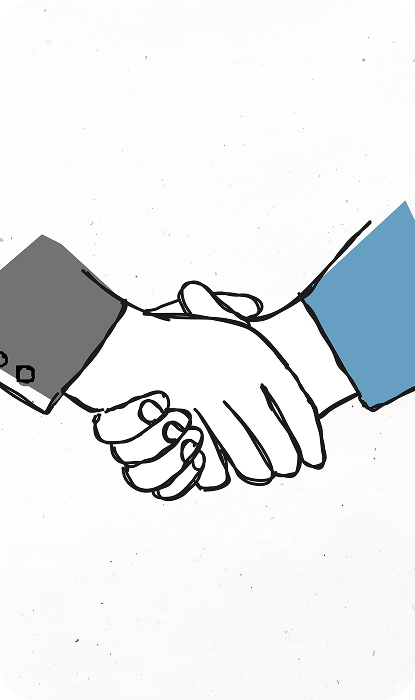
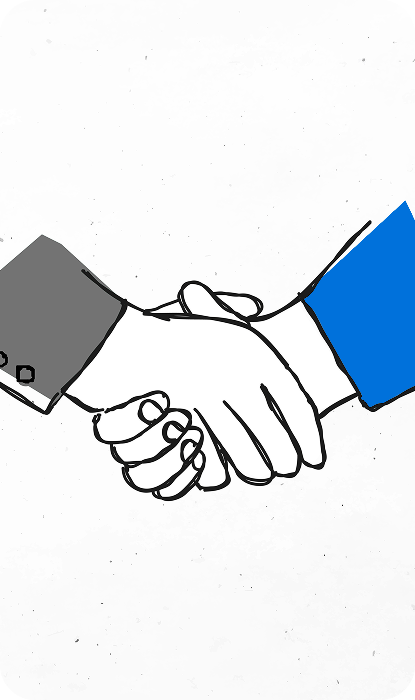
Perubahan warna dan tambah about.html

Changed region(s): [[0.7229, 0.27, 1.0, 0.6]]

diff --git a/about.css b/about.css
@@ -1,0 +1,127 @@
+.navbar {
+  position: sticky;
+  top: 0;
+  max-width: 100%;
+  height: 60px;
+  margin-bottom: 15px;
+  transition: 0.5s;
+  z-index: 1000;
+}
+
+.navbar .container {
+  width: 100%;
+  display: flex;
+  justify-content: space-between;
+  align-items: center;
+}
+
+.navbar .container a {
+  text-decoration: none;
+}
+
+.navbar .container .logo {
+  font-family: "Teko";
+  font-size: 33px;
+  font-weight: 600;
+  color: #fff;
+}
+
+.navbar .container .navbar-toggle {
+  display: none;
+  background-color: transparent;
+  padding: 10px;
+  border: none;
+  cursor: pointer;
+}
+
+.navbar .container .navbar-toggle .bar {
+  display: block;
+  width: 25px;
+  height: 3px;
+  margin: 5px auto;
+  background-color: #fff;
+  transition: all 0.3s ease-in-out;
+}
+
+.navbar .container ul {
+  display: flex;
+}
+
+.navbar .container ul li {
+  list-style: none;
+  margin: 0 15px;
+  position: relative;
+  padding-bottom: 5px;
+  overflow: hidden;
+}
+
+.navbar .container ul li::after {
+  content: "";
+  position: absolute;
+  bottom: 0;
+  left: 0;
+  width: 100%;
+  height: 2px;
+  background-color: #fff;
+  transform: scaleX(0);
+  transform-origin: left;
+  transition: transform 0.4s ease-out;
+}
+
+.navbar .container ul li:hover::after {
+  transform: scaleX(1);
+  transform-origin: left;
+  background-color: #fff;
+}
+
+.navbar .container ul li a {
+  font-size: var(--font-size-h3);
+  font-family: var(--font-family-2);
+  letter-spacing: 2px;
+  color: #fff;
+}
+
+.navbar .container .button-header {
+  display: flex;
+  justify-content: space-between;
+  gap: 15px;
+}
+
+.navbar .container .button-header a {
+  border: 2px solid #fff;
+  padding: 7px 20px;
+  border-radius: 20px;
+  font-size: var(--font-size-h3);
+  font-weight: 500;
+  font-family: var(--font-family-2);
+  background-color: transparent;
+  color: #fff;
+}
+
+.navbar .container .button-header .signup {
+  background-color: #fff;
+  color: #000;
+}
+
+.navbar.scrolled {
+  height: 80px;
+  background-color: #fff;
+  box-shadow: 0 2px 5px rgba(0, 0, 0, 0.2);
+}
+
+#hero-about {
+  width: 100%;
+}
+
+#hero-about .container {
+  width: 100%;
+  padding: 0px;
+}
+
+#hero-about .container img {
+  position: absolute;
+  top: 0;
+  left: 0;
+  width: 100%;
+  height: 700px;
+}

diff --git a/about.html b/about.html
@@ -1,0 +1,61 @@
+<!DOCTYPE html>
+<html lang="en">
+  <head>
+    <meta charset="UTF-8" />
+    <meta name="viewport" content="width=device-width, initial-scale=1.0" />
+    <title>Bitbelajar - About Us</title>
+    <link rel="stylesheet" href="about.css" />
+    <link rel="stylesheet" href="assets/css/style.css" />
+    <link rel="stylesheet" href="assets/css/responsive.css" />
+
+    <!-- Font -->
+    <link rel="preconnect" href="https://fonts.googleapis.com" />
+    <link rel="preconnect" href="https://fonts.gstatic.com" crossorigin />
+    <link
+      href="https://fonts.googleapis.com/css2?family=Roboto:ital,wght@0,100..900;1,100..900&family=Teko:wght@300..700&display=swap"
+      rel="stylesheet"
+    />
+  </head>
+  <body>
+    <!-- ----- Header ------- -->
+    <nav class="navbar">
+      <div class="container">
+        <a href="#" class="logo link">BitBelajar</a>
+
+        <button class="navbar-toggle">
+          <span class="bar"></span>
+          <span class="bar"></span>
+          <span class="bar"></span>
+        </button>
+        <ul class="navbar-menu">
+          <li>
+            <a href="#" class="link">Home</a>
+          </li>
+          <li>
+            <a href="#about" class="link">About Us</a>
+          </li>
+          <li>
+            <a href="#bitbelajar" class="link">Why BitBelajar ?</a>
+          </li>
+          <li>
+            <a href="#feature" class="link">Feature</a>
+          </li>
+          <li>
+            <a href="#contact" class="link">Contact</a>
+          </li>
+        </ul>
+        <div class="button-header">
+          <a href="login.php" class="login">Sign In</a>
+          <a href="signup.php" class="signup">Sign Up</a>
+        </div>
+      </div>
+    </nav>
+
+    <!-- About Us Content -->
+    <section id="hero-about">
+      <div class="container">
+        <img src="assets/img/bitbelajarbanner.png" alt="Bitbelajar" />
+      </div>
+    </section>
+  </body>
+</html>

diff --git a/index.html b/index.html
@@ -52,15 +52,16 @@
           <a href="signup.php" class="signup">Sign Up</a>
         </div>
       </div>
-
-      <!-- <div class="hamburger"></div> -->
     </nav>
 
     <!-- ----------- Hero Seciton ------------- -->
     <section id="hero">
       <div class="container">
         <div class="background">
-          <img src="assets/img/Background.png" alt="" />
+          <img
+            src="assets/img/BackgroundIlustration.png"
+            alt="Bitbelajar Ilustration"
+          />
         </div>
         <div class="content">
           <h1>

diff --git a/assets/css/style.css b/assets/css/style.css
@@ -9,7 +9,7 @@ html {
 }
 
 :root {
-  --primary-color: #679fc2;
+  --primary-color: #0071db;
   --secondary-color: #000000;
   --text-color-white: #fff;
   --font-size-p: 16px;
@@ -305,6 +305,7 @@ html {
 }
 
 #bitbelajar .card-content {
+  width: 100%;
   display: flex;
   justify-content: center;
   align-items: center;

diff --git a/assets/css/responsive.css b/assets/css/responsive.css
@@ -15,7 +15,7 @@
   }
 }
 
-@media (max-width: 1265px) {
+/* @media (max-width: 1265px) {
   #hero {
     padding-top: 30px;
   }
@@ -52,7 +52,7 @@
   #join .container h1 {
     font-size: 50px;
   }
-}
+} */
 
 /* tablet */
 @media (max-width: 1024px) {

diff --git a/login.php b/login.php
@@ -3,7 +3,7 @@
   <head>
     <meta charset="UTF-8" />
     <meta name="viewport" content="width=device-width, initial-scale=1.0" />
-    <title>BitBelajar Login</title>
+    <title>BitBelajar - Login</title>
 
     <!-- login style css  -->
     <link rel="stylesheet" href="assets/css/login.css" />

diff --git a/signup.php b/signup.php
@@ -3,7 +3,7 @@
 <head>
   <meta charset="UTF-8" />
   <meta name="viewport" content="width=device-width, initial-scale=1.0"/>
-  <title>BitBelajar Sign Up</title>
+  <title>BitBelajar - Sign Up</title>
   <link rel="stylesheet" href="assets\css\signup.css" />
 </head>
 <body>
